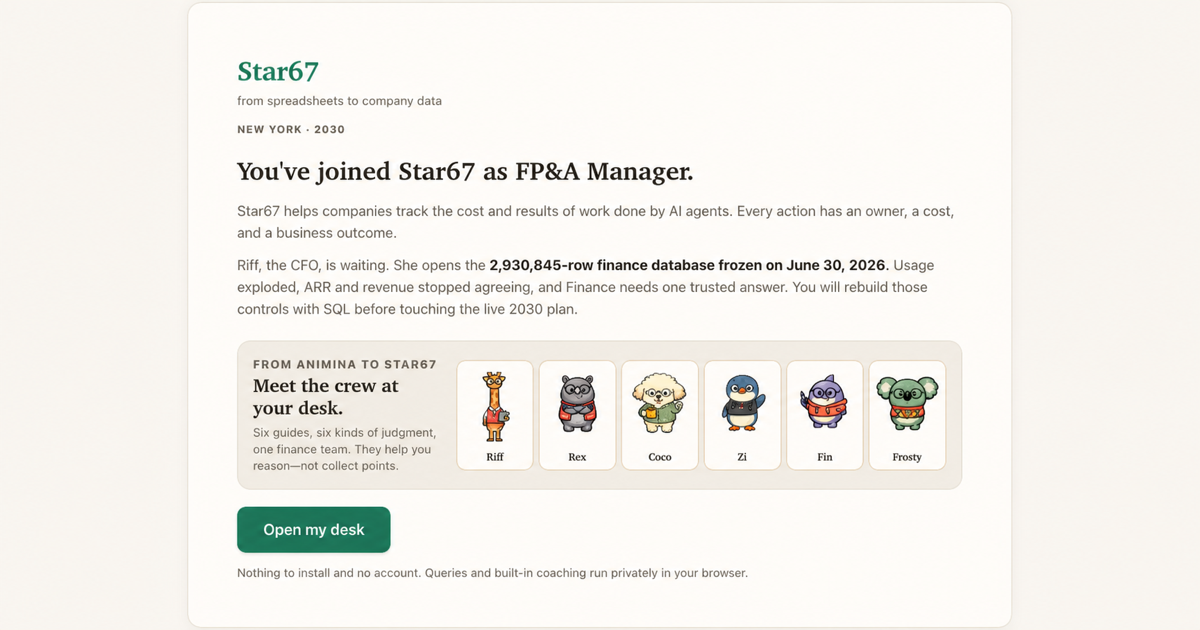
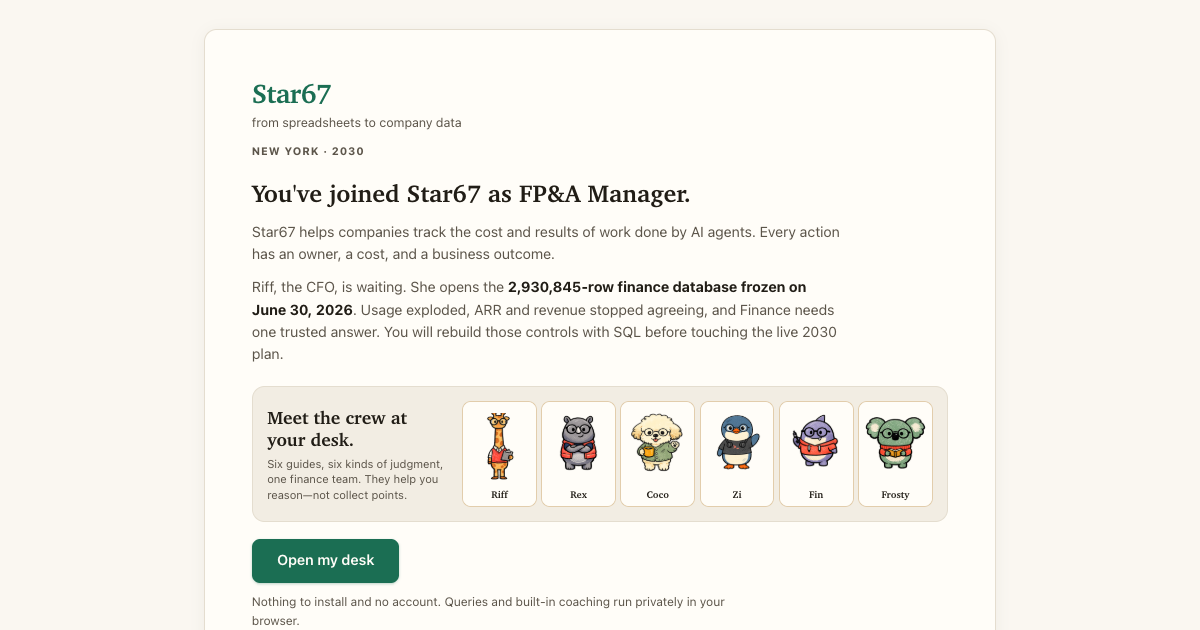
Simplify the welcome story

Changed region(s): [[0.1542, 0.0905, 0.8325, 1.0]]

diff --git a/src/styles.css b/src/styles.css
@@ -43,6 +43,7 @@ pre { font-family: var(--mono); }
 .intro-card h1 { font-family: var(--serif); font-size: 27px; font-weight: 600; line-height: 1.25; margin: 20px 0 14px; }
 .intro-card h1:focus { outline: none; }
 .intro-card p { margin-bottom: 12px; color: var(--ink-soft); }
+.intro-card--crew > p { max-width: 65ch; }
 .intro-card p strong { color: var(--ink); }
 .story-year, .scenario-library-era { color: var(--green); font-size: 12px; font-weight: 750; letter-spacing: .09em; text-transform: uppercase; }
 .wordmark { font-family: var(--serif); font-size: 30px; font-weight: 700; letter-spacing: -0.02em; color: var(--green); }

diff --git a/src/App.tsx b/src/App.tsx
@@ -267,7 +267,6 @@ function Intro({ returning, onBegin }: { returning: boolean; onBegin: () => void
             </p>
             <section className="intro-crew" aria-labelledby="intro-crew-title">
               <div className="intro-crew__copy">
-                <p className="story-year">From Animina to Star67</p>
                 <h2 id="intro-crew-title">Meet the crew at your desk.</h2>
                 <p>Six guides, six kinds of judgment, one finance team. They help you reason—not collect points.</p>
               </div>

diff --git a/src/characters/DeskCrew.tsx b/src/characters/DeskCrew.tsx
@@ -10,7 +10,7 @@ export function DeskCrew({
   return (
     <div
       className={`desk-crew desk-crew--${presentation}`}
-      aria-label="Meet the Animina crew at Star67"
+      aria-label="Meet the Star67 crew at your desk"
     >
       {ids.map((id) => {
         const character = DESK_CREW[id]
